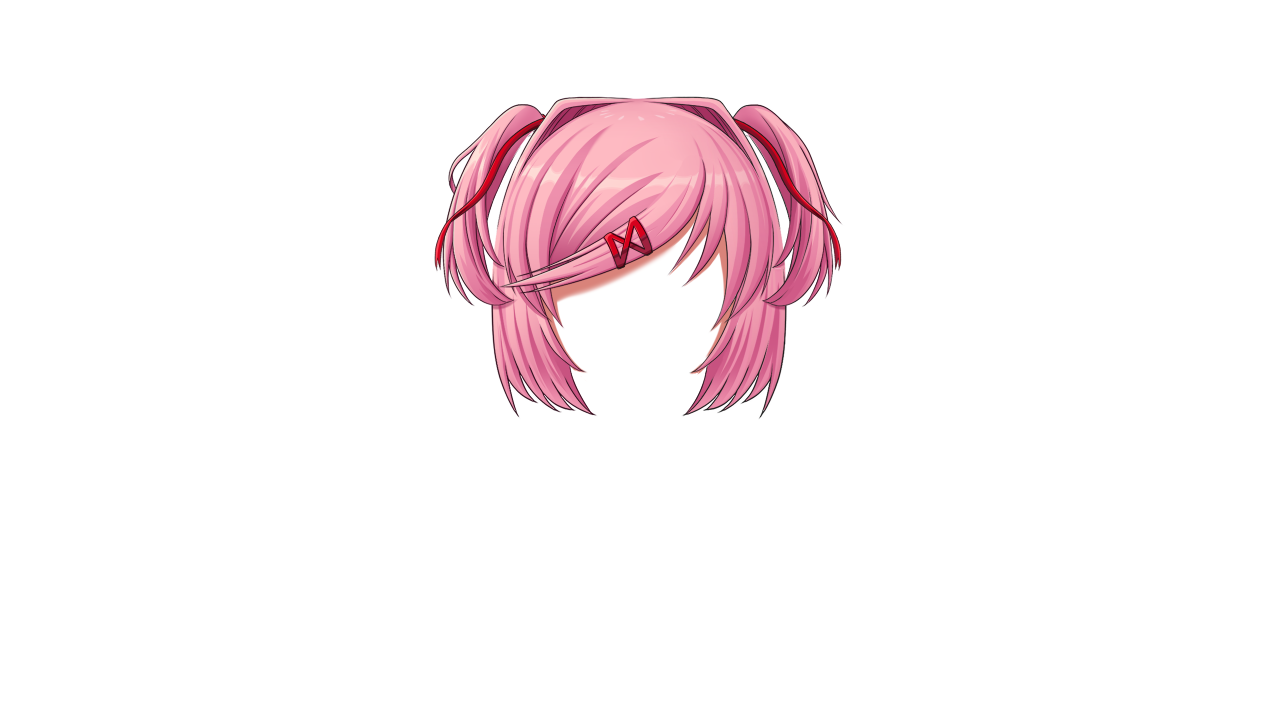
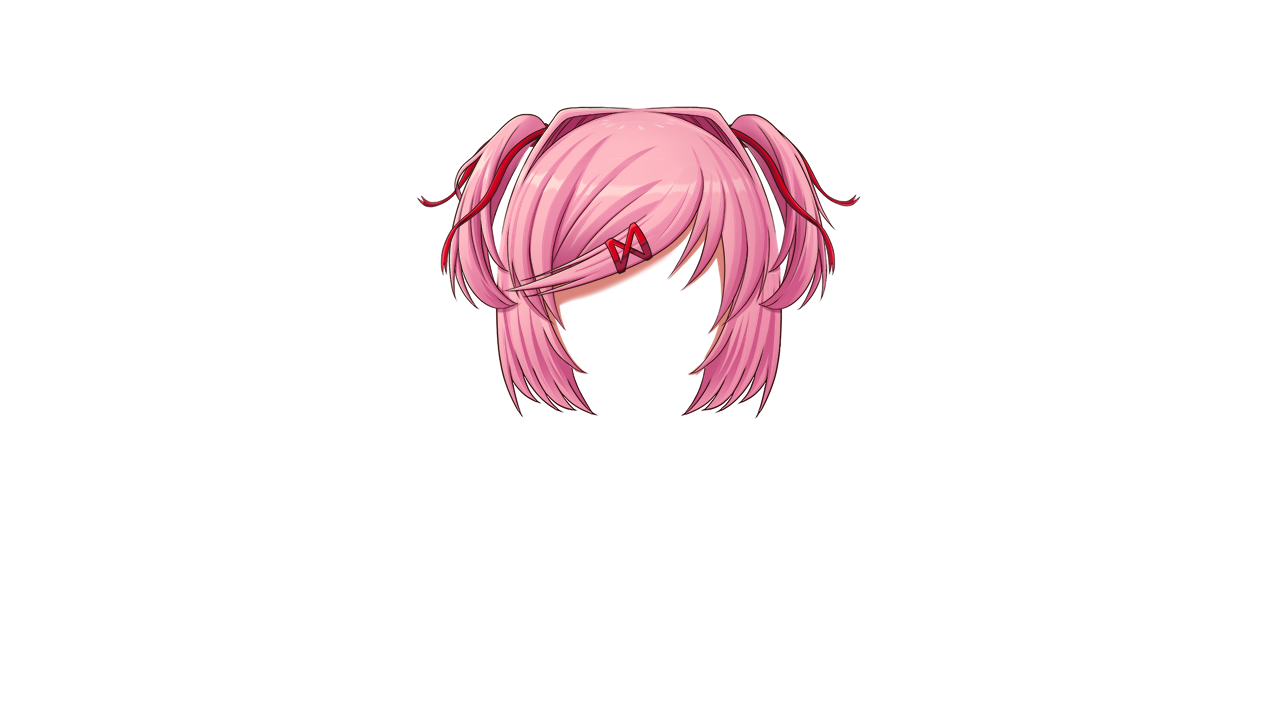
Add proportion adjustment graphics
Also strip spaces from spritecode input

Changed region(s): [[0.3125, 0.1222, 0.6875, 0.5806]]

diff --git a/expression_previewer.js b/expression_previewer.js
@@ -187,6 +187,7 @@ $(document).ready(function() {
     document.getElementById("input_code").addEventListener(
         "keyup",
         function() {
+            $("#input_code").val($("#input_code").val().trim())
             getFromSpriteCode($("#input_code").val())
         }
     )
@@ -194,6 +195,7 @@ $(document).ready(function() {
     document.getElementById("input_code").addEventListener(
         "paste",
         function() {
+            $("#input_code").val($("#input_code").val().trim())
             getFromSpriteCode($("#input_code").val())
         }
     )
